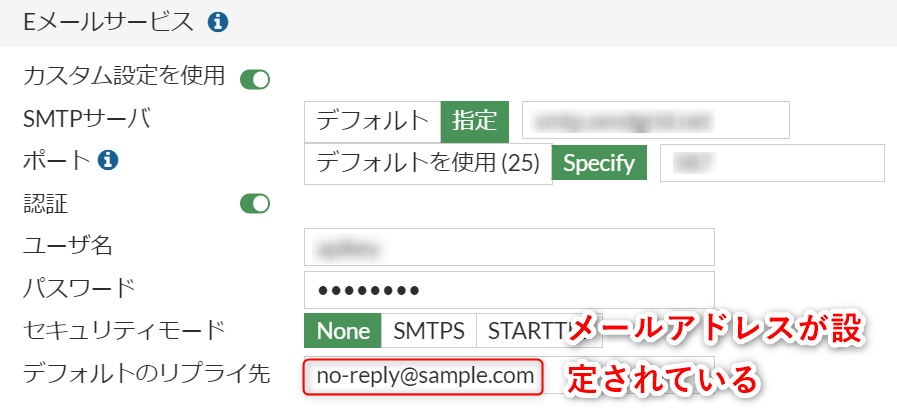
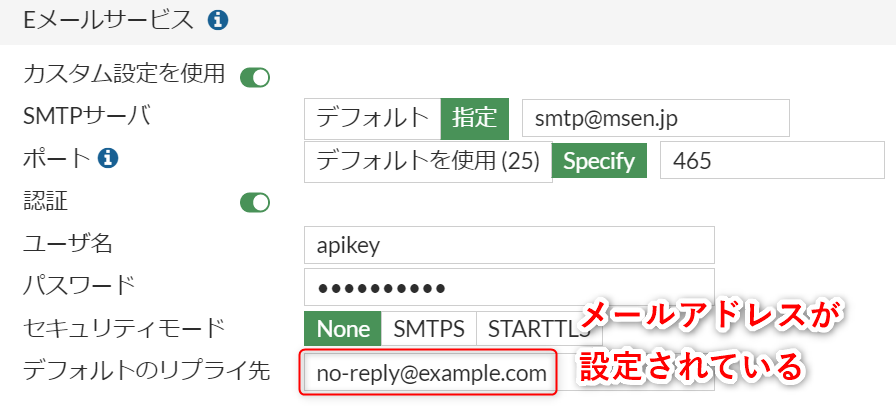
.com.comの修正。画像の差し替え。

diff --git a/hiratatsu04/2023/setting-sender-email-address-for-fortigate-ssl-vpn/index.md b/hiratatsu04/2023/setting-sender-email-address-for-fortigate-ssl-vpn/index.md
@@ -62,15 +62,15 @@ Tera Term などで FortiGate にアクセスします。
 <ホスト名> (email-server) # end
 ```
 
-たとえば、`no-reply@example.com.com` を設定する場合は以下となります。
+たとえば、`no-reply@example.com` を設定する場合は以下となります。
 
 ```
 <ホスト名> # config system email-server
-<ホスト名> (email-server) # set reply-to no-reply@example.com.com
+<ホスト名> (email-server) # set reply-to no-reply@example.com
 <ホスト名> (email-server) # end
 ```
 
-設定後に GUI から [システム] > [設定] > [Eメールサービス] を確認すると、デフォルトのリプライ先に `no-reply@example.com.com` が設定されています。
+設定後に GUI から [システム] > [設定] > [Eメールサービス] を確認すると、デフォルトのリプライ先に `no-reply@example.com` が設定されています。
 
 ![デフォルトのリプライ先にアドレスが設定されている](images/setting-cli.png "デフォルトのリプライ先にアドレスが設定されている")
 
